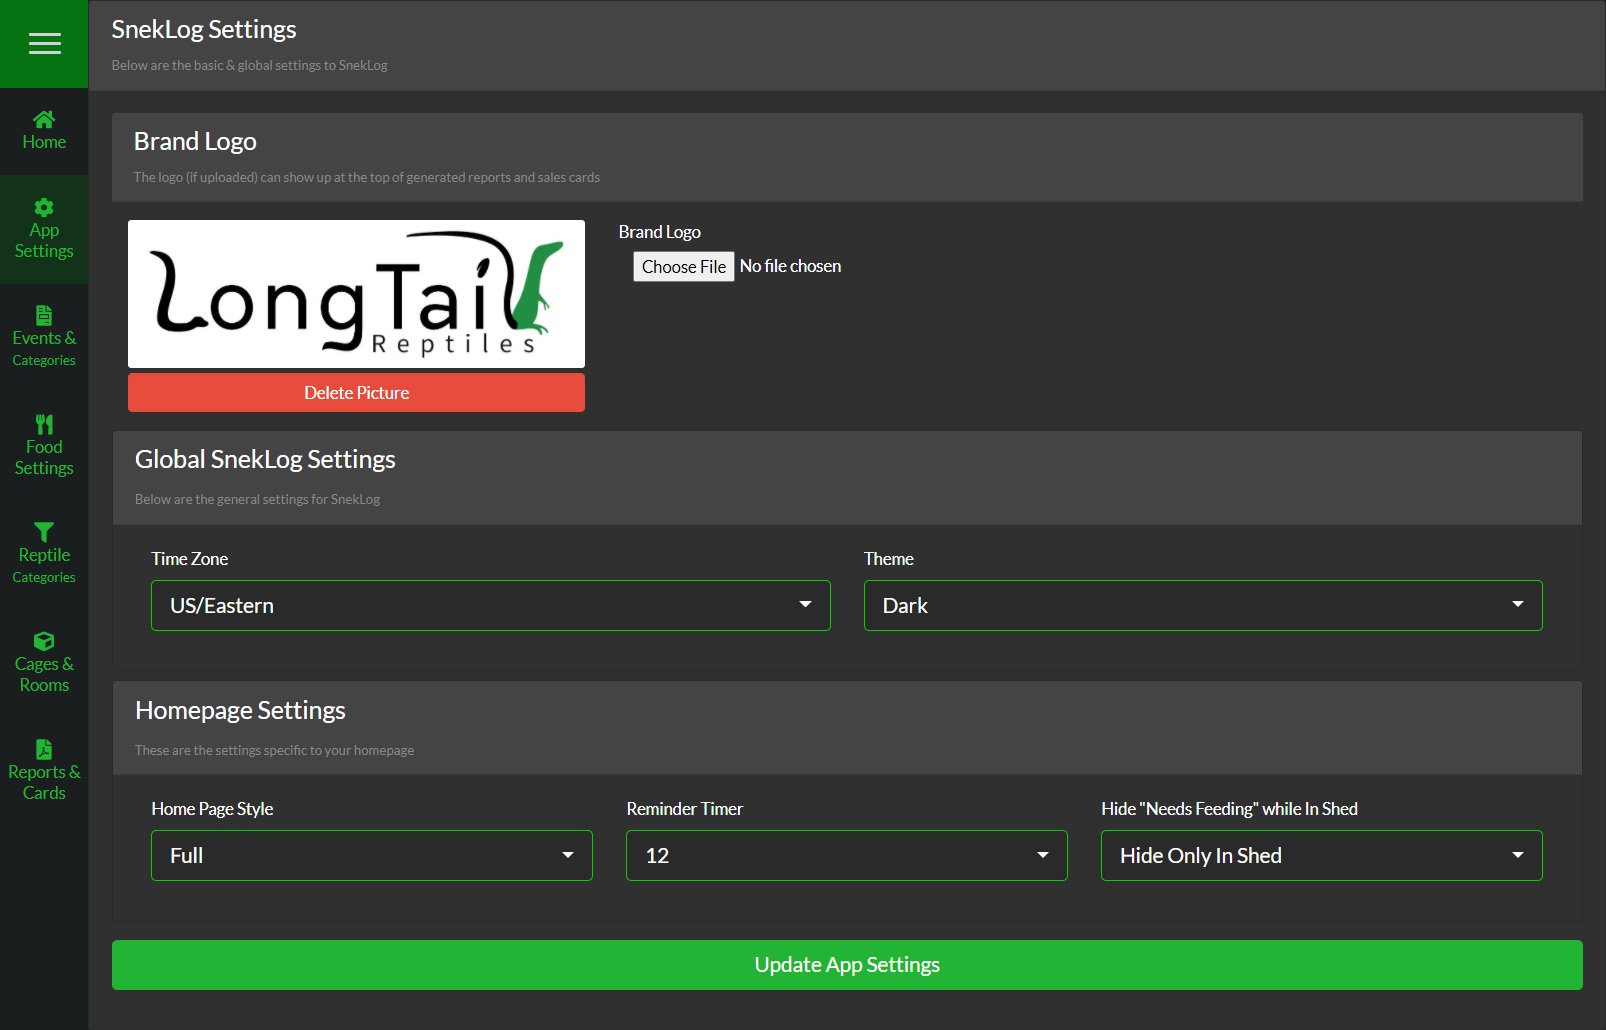
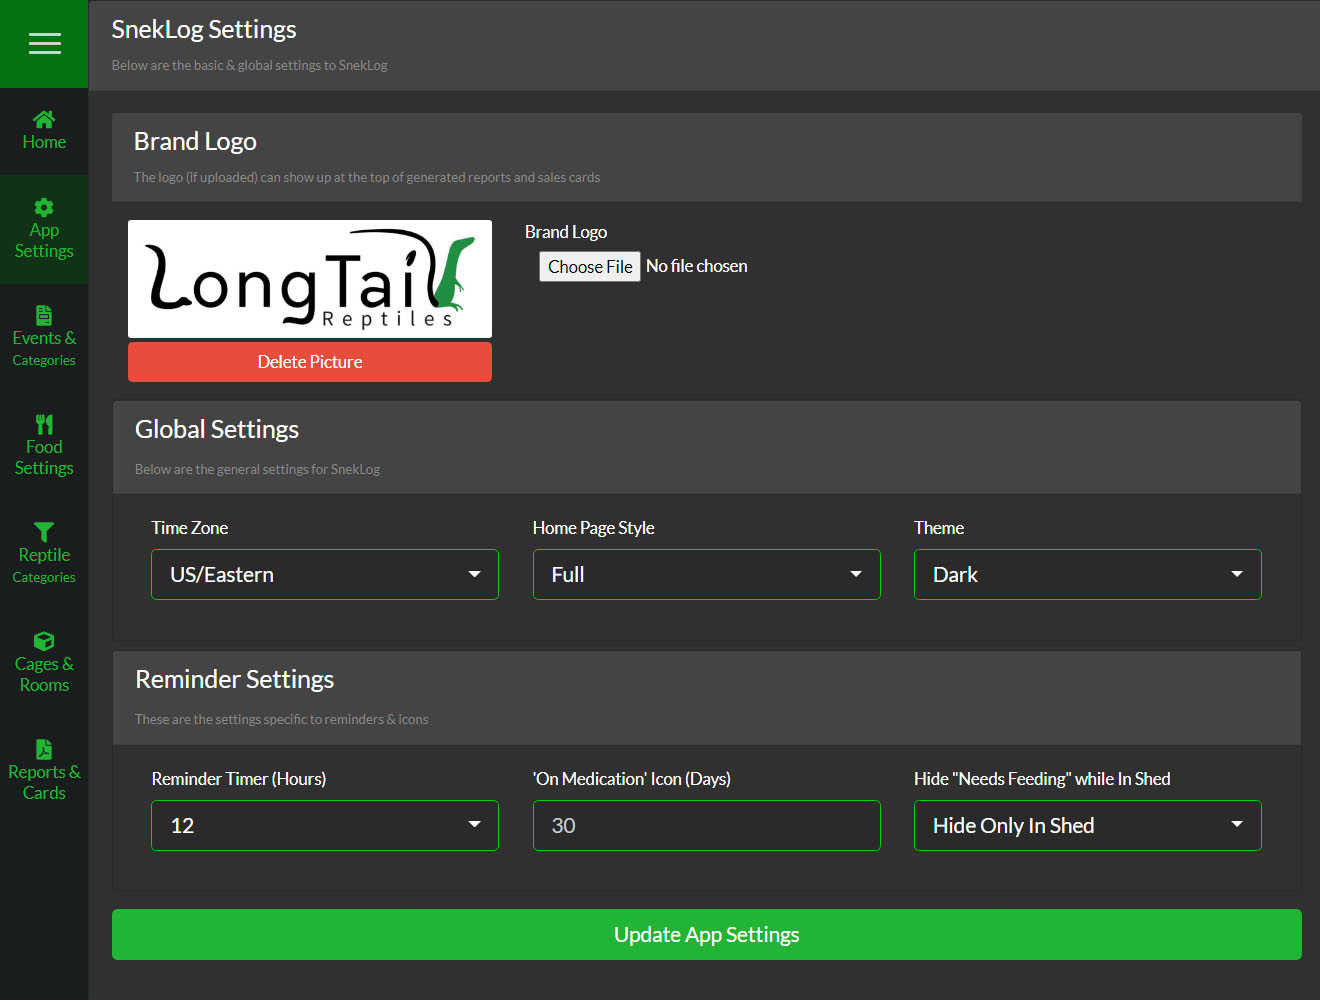
(Grav GitSync) Automatic Commit from fiendishfeather@outlook.com

diff --git a/pages/06.Partials/01.homepages/02.homepage-icon-table/default.md b/pages/06.Partials/01.homepages/02.homepage-icon-table/default.md
@@ -1,12 +1,6 @@
 ---
 title: 'Homepage Icon Table'
-media_order: 'HomeFull_Card.jpg,balance-scale-right-solid.svg,broom-solid.svg,capsules-solid.svg,eye-slash-regular.svg,eye-slash-solid.svg,hamburger-solid.svg,hand-holding-solid.svg,money-bill-solid.svg,biohazard-solid.svg'
-taxonomy:
-    category:
-        - docs
-process:
-    markdown: true
-    twig: true
+media_order: 'balance-scale-right-solid.svg,biohazard-solid.svg,broom-solid.svg,capsules-solid.svg,eye-slash-regular.svg,eye-slash-solid.svg,hamburger.svg,hamburger-solid.svg,hand-holding-solid.svg,money-bill-solid.svg,syringe.svg'
 ---
 
 ###Overview
@@ -23,16 +17,17 @@ Reminders are the little icons you will see under the "Last Fed" text. Each icon
 
 | Icon 	| Status |
 | ------ | ----------- |
-| ![](hamburger-solid.svg?resize=50,50&classes=margin-none)      		| Due for Food |
-| ![](hamburger.svg?resize=50,50&classes=margin-none)      				| Status set to "Fasting" & is NOT due for food |
+| ![](hamburger-solid.svg?resize=50,50&classes=margin-none)      			| Due for Food |
+| ![](hamburger.svg?resize=50,50&classes=margin-none)      						| Status set to "Fasting" & is NOT due for food |
 | ![](balance-scale-right-solid.svg?resize=50,50&classes=margin-none)   | Due for Weight Check |
-| ![](broom-solid.svg?resize=50,50&classes=margin-none)   				| Due for Cleaning |
-| ![](capsules-solid.svg?resize=50,50&classes=margin-none)     			| Due for Medication |
-| ![](eye-slash-regular.svg?resize=50,50&classes=margin-none)     		| In "Pre-Shed" |
-| ![](eye-slash-solid.svg?resize=50,50&classes=margin-none)     		| In "Shed" |
-| ![](hand-holding-solid.svg?resize=50,50&classes=margin-none)      	| Status set to "Reserved" |
-| ![](money-bill-solid.svg?resize=50,50&classes=margin-none)      		| Status set to "For Sale" |
-| ![](biohazard-solid.svg?resize=50,50&classes=margin-none)      		| Status set to "Quarantine" <br> White: No Quarantine Duration set <br> Orange: Timer set and it's prior to the duration <br> Green: Timer is set and the duration is past |
+| ![](broom-solid.svg?resize=50,50&classes=margin-none)   						| Due for Cleaning |
+| ![](capsules-solid.svg?resize=50,50&classes=margin-none)     				| Due for Medication |
+| ![](syringe.svg?resize=50,50&classes=margin-none)     								| "On Medication" Reminder |
+| ![](eye-slash-regular.svg?resize=50,50&classes=margin-none)     			| In "Pre-Shed" |
+| ![](eye-slash-solid.svg?resize=50,50&classes=margin-none)     			| In "Shed" |
+| ![](hand-holding-solid.svg?resize=50,50&classes=margin-none)      		| Status set to "Reserved" |
+| ![](money-bill-solid.svg?resize=50,50&classes=margin-none)      			| Status set to "For Sale" |
+| ![](biohazard-solid.svg?resize=50,50&classes=margin-none)      			| Status set to "Quarantine" <br> White: No Quarantine Duration set <br> Orange: Timer set and it's prior to the duration <br> Green: Timer is set and the duration is past |
 
 <p class="table-footer">Icons are provided by of <a href="https://fontawesome.com/license">Font Awesome</a></p>
 

diff --git a/pages/04.settings/04.sneklog-settings/05.app-settings-overview/03.homepage-settings/docs.md b/pages/04.settings/04.sneklog-settings/05.app-settings-overview/03.homepage-settings/docs.md
@@ -1,12 +1,14 @@
 ---
-title: 'Homepage Settings'
-media_order: SnekLog_Settings_Homepage.jpg
-published: true
+title: 'Reminder Settings'
+media_order: 'SnekLog_Settings_App_Reminder.jpg,syringe.svg'
+taxonomy:
+    category:
+        - docs
 ---
 
-![](SnekLog_Settings_Homepage.jpg)
+![](SnekLog_Settings_App_Reminder.jpg)
 
-###Reminder Timer
+###Reminder Timer (Hours)
 The Reminder Timer allows you the change the amount of time before an event is "Due" that the reminder icon appears on the home screen so you can see in advance upcoming events and prepare. The default is 24 hours, but you can choose anywhere between 0-24 in 3 hour increments
 
 >>>>> For Example: By default, If you fed your Reptile on September 1st at 9:00pm with feeding interval of 7 days, the 'Feeding Due' icon will appear an September 6th at 9:01pm.
@@ -19,12 +21,10 @@ Separator
 
 ___
 
-###Home Page
-This option allows you to choose which style Home Page you use.
+###'On Medication' Icon (Days)
+This option allows you to show an icon ![](syringe.svg?classes=inline-fa-icon) for animals that are due for meds X days in advance (Default is 30 days). 
 
-See [Full Size Home](https://help.sneklog.com/home-pages/home-full) or [Compact Home](https://help.sneklog.com/home-pages/home-compact) for details.
-
->>>>>> You can still use the opposite style at any time by opening the sidebar while on the homepage and selecting the option at the top of the navigation list.
+>>>>>> This feature is most useful for people who need to schedule feedings for their reptiles with getting a dose of medication or a supplement. This icon will pop up **before** the "Medication Due" timer and will also show up on the "Food List" so you can see in advance if you should hold off on feeding the reptile so they don't miss their upcoming dose of medicine.
 
 ___
 
@@ -32,3 +32,4 @@ ___
 This option allows hide reptile that are either "In Shed" or that are in "Pre-Shed" from both the Homepage and the Feeding list. This is useful if you don't feed your reptiles while they are going through a Shed Cycle and if you don't want them to show up when you are using the "Needs Feed" filter.
 
 >>>>> If you have this setting enabled, you will have a notification pop up when applying the "Needs Feeding" filter telling you how many reptiles were hidden from the page.
+

diff --git a/pages/04.settings/04.sneklog-settings/05.app-settings-overview/02.global-settings/docs.md b/pages/04.settings/04.sneklog-settings/05.app-settings-overview/02.global-settings/docs.md
@@ -1,7 +1,9 @@
 ---
 title: 'Global Settings'
-media_order: 'SnekLog_Settings_Global.jpg,SnekLog_Settings_Themes.jpg'
-published: true
+media_order: 'SnekLog_Settings_App_Global.jpg,SnekLog_Settings_Themes.jpg'
+taxonomy:
+    category:
+        - docs
 ---
 
 ![](SnekLog_Settings_Global.jpg)
@@ -19,6 +21,19 @@ Separator
 SnekLog stores everything you log in UTC (Coordinated Universal Time) so it is very important that you select the proper Time Zone you are in so that all the conversions are done properly. 
 
 >>>>> If you ever move or change location, simply update your Time Zone and SnekLog will adjust everything for you.
+
+___
+
+<!--
+Separator
+-->
+
+###Home Page
+This option allows you to choose which style Home Page you use.
+
+See [Full Size Home](https://help.sneklog.com/home-pages/home-full) or [Compact Home](https://help.sneklog.com/home-pages/home-compact) for details.
+
+>>>>>> You can still use the opposite style at any time by opening the sidebar while on the homepage and selecting the option at the top of the navigation list.
 
 ___
 

diff --git a/pages/04.settings/04.sneklog-settings/05.app-settings-overview/docs.md b/pages/04.settings/04.sneklog-settings/05.app-settings-overview/docs.md
@@ -1,6 +1,6 @@
 ---
 title: 'App Settings'
-media_order: SnekLog_Settings_App.jpg
+media_order: 'SnekLog_Settings_App.jpg,SnekLog_Settings_Themes.jpg'
 published: true
 taxonomy:
     category:
@@ -14,4 +14,4 @@ visible: true
 ![](SnekLog_Settings_App.jpg)
 
 ###Overview
-The App Settings page holds the most basic of your Application settings like Timezone, Theme, & Reminder Timer as well as your Home Page ([Full](https://help.sneklog.com/home-pages/home-full) or [Compact](https://help.sneklog.com/home-pages/home-compact)) configuration. 
+The App Settings page holds the most basic of your Application settings like Timezone, Theme, & Reminder Settings as well as your Home Page ([Full](https://help.sneklog.com/home-pages/home-full) or [Compact](https://help.sneklog.com/home-pages/home-compact)) configuration. 

diff --git a/pages/03.home-pages/chapter.md b/pages/03.home-pages/chapter.md
@@ -1,5 +1,5 @@
 ---
-title: 'Home Pages'
+title: 'Home Page'
 taxonomy:
     category:
         - docs
@@ -9,7 +9,7 @@ visible: true
 
 ### SnekLog Users Manual
 
-# Home Pages
+# Home Page
 
 Basic overview of both the Full Size and Compact home pages
 

diff --git a/pages/04.settings/04.sneklog-settings/05.app-settings-overview/01.brand-logo/docs.md b/pages/04.settings/04.sneklog-settings/05.app-settings-overview/01.brand-logo/docs.md
@@ -1,6 +1,9 @@
 ---
 title: 'Brand Logo'
 media_order: 'SnekLog_Settings_Logo.jpg,SnekLog_Settings_Logo-Preview.jpg'
+taxonomy:
+    category:
+        - docs
 ---
 
 ![](SnekLog_Settings_Logo.jpg)
